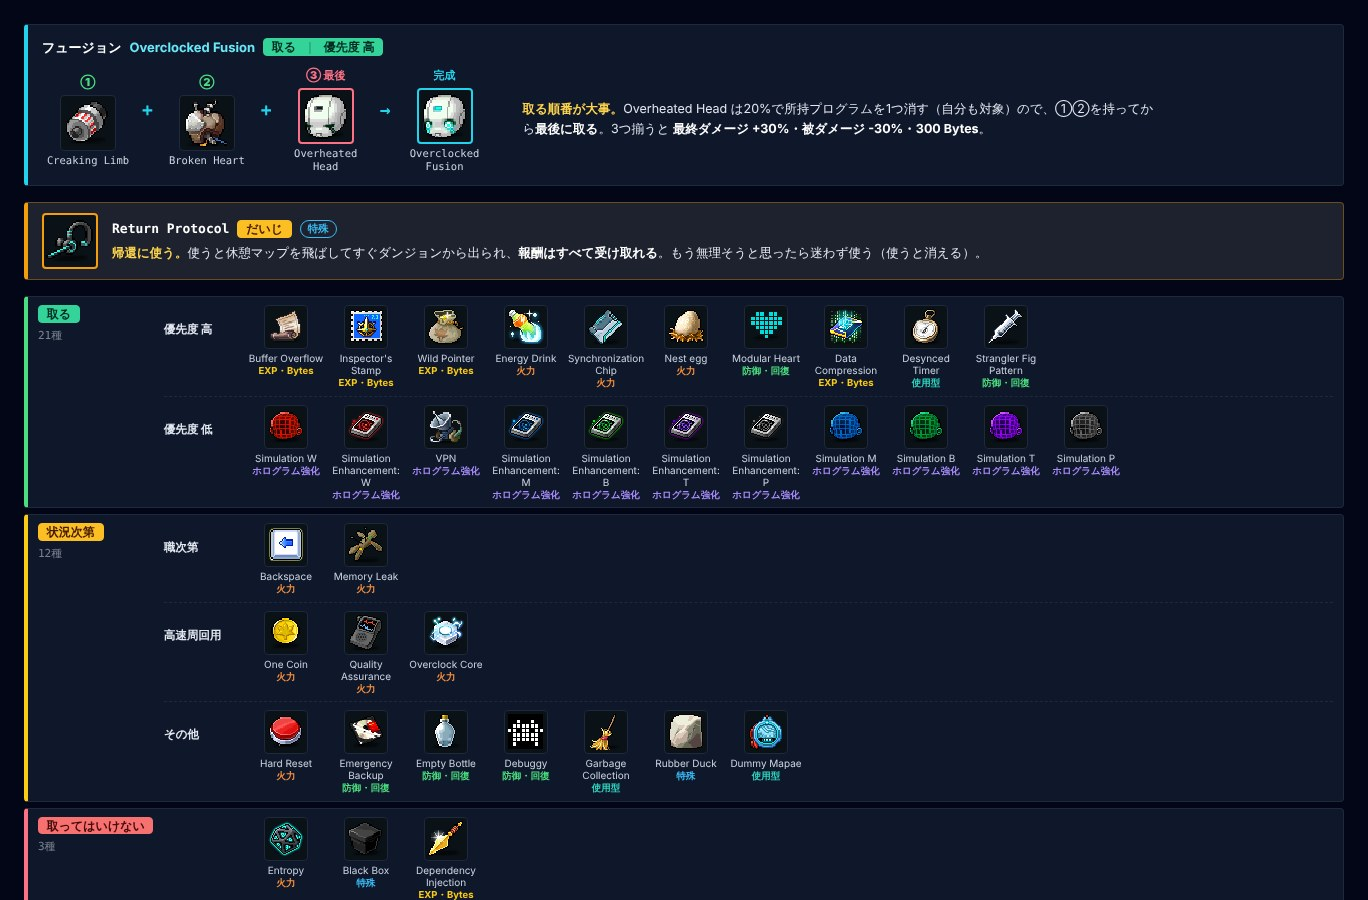
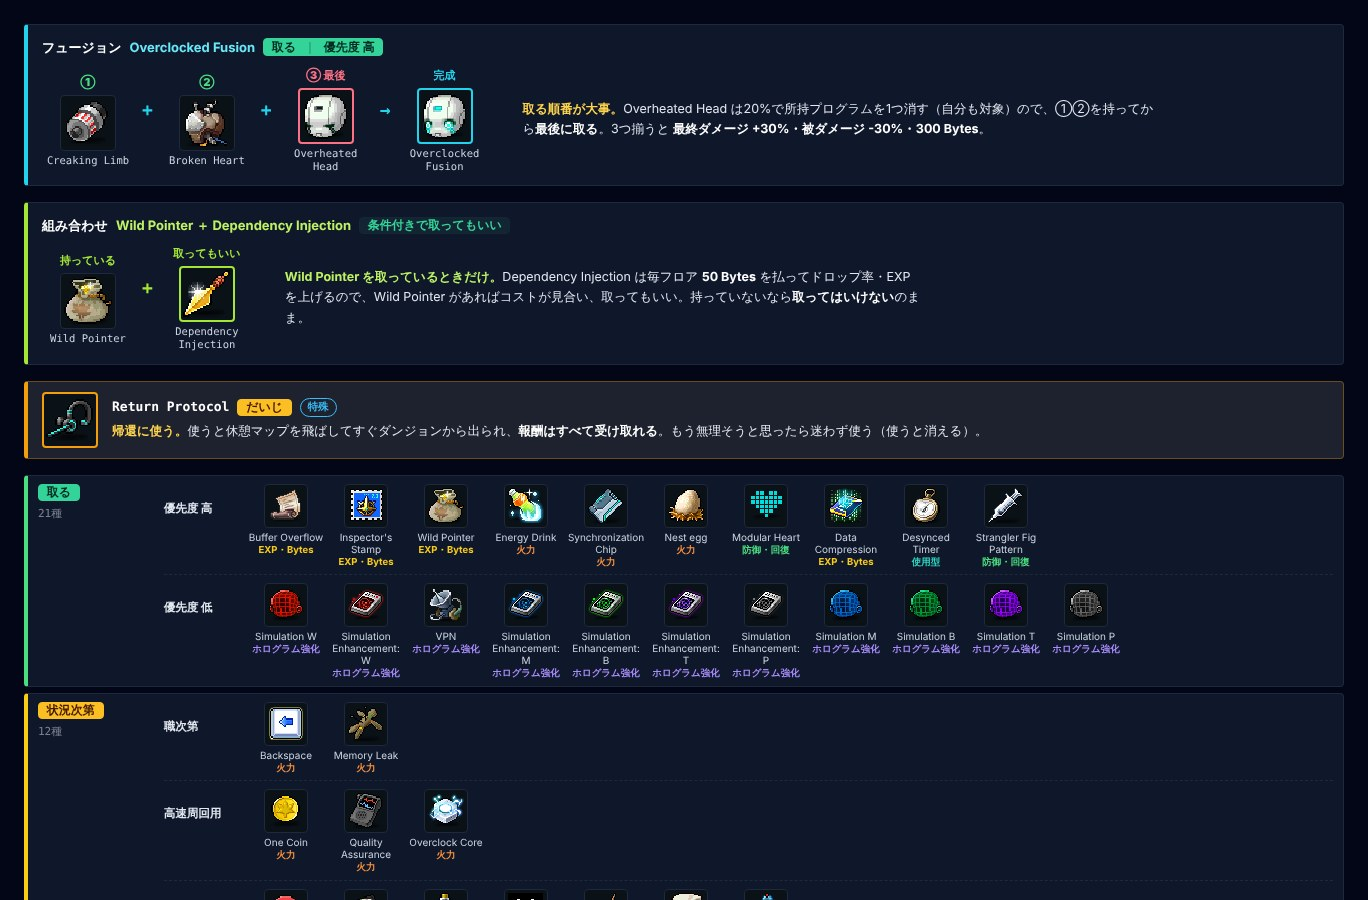
バトルシム: Wild Pointer ＋ Dependency Injection の「組み合わせ」枠を追加（bi 指定）
Dependency Injection は Wild Pointer を取っているときだけコストが見合うので取ってもいい、をフュージョンと同じ形で別枠に。

Claude-Session: https://claude.ai/code/session_01VfuuungApVwhHvPPZNJUXm

diff --git a/public/libae_battlesim.js b/public/libae_battlesim.js
@@ -39,7 +39,7 @@ const libaeBattlesim = (() => {
         {"v": "lo", "name": "VPN", "icon": "vpn", "cat": "holo", "eff": ["[Hologram] Registry の再付着時間 -1 / 2 / 3秒"], "gc": "ユーザー判断で「取る（優先度 低）」に分類（ガイドでの言及なし）", "note": "手元の一覧の -1.0秒は1段階目の値。重ね取りで -2 / -3秒"},
         {"v": "avoid", "name": "Entropy", "icon": "entropy", "cat": "atk", "eff": ["最終ダメージ +50%", "フロア入場時、30%の確率で [Disorder] が1スタック", "[Disorder] が3スタックになるとダンジョンから自動退出"], "gc": "フロアに入るたび30%でスタックが溜まり、3つで強制退出。死亡扱いではないので復活系も効かない"},
         {"v": "avoid", "name": "Black Box", "icon": "black-box", "cat": "util", "eff": ["入手した瞬間にランダムなプログラムを3つ獲得し、所持プログラムからランダムに2つ削除（再入手すると再発動）"], "gc": "3つもらえる代わりに自分のプログラムが2つ消える。大事なものを消されるリスクが見合わない"},
-        {"v": "avoid", "name": "Dependency Injection", "icon": "dependency-injection", "cat": "res", "eff": ["フロア入場時に 50 Bytes を消費し、次のどちらかを得る", "・アイテムドロップ率 +40%、獲得EXP +10%", "・獲得EXP +40%、アイテムドロップ率 +10%", "Bytesが足りないと発動しない"], "gc": "毎フロア50 Bytes払う系。序盤は厳禁。ルートルームで買い物するBytesが足りなくなる。収入が育った後半向け"},
+        {"v": "avoid", "name": "Dependency Injection", "icon": "dependency-injection", "cat": "res", "eff": ["フロア入場時に 50 Bytes を消費し、次のどちらかを得る", "・アイテムドロップ率 +40%、獲得EXP +10%", "・獲得EXP +40%、アイテムドロップ率 +10%", "Bytesが足りないと発動しない"], "gc": "毎フロア50 Bytes払う系。Wild Pointer を取っているときだけコストが見合うので取ってもいい（上の「組み合わせ」、ユーザー判断）。ガイドでは：序盤は厳禁。ルートルームで買い物するBytesが足りなくなる。収入が育った後半向け"},
         {"v": "lo", "name": "Simulation Enhancement: M", "icon": "simulation-enhancement-m", "cat": "holo", "eff": ["投影魔法使いの [Hologram] Bolt Barrage ダメージ +10 / 20 / 30%"], "gc": "Jailbreak系（ホログラム投影の強化）。ガイドでは火力が低く優先度は最下位クラスだが、ユーザー判断で「取る（優先度 低）」に分類", "tip": "Type-M Jailbreak"},
         {"v": "lo", "name": "Simulation Enhancement: B", "icon": "simulation-enhancement-b", "cat": "holo", "eff": ["投影弓使いの [Hologram] Ultimate Snipe ダメージ +10 / 20 / 30%"], "gc": "Jailbreak系。ガイドでは優先度最下位クラス。ユーザー判断で「取る（優先度 低）」に分類", "tip": "Type-B Jailbreak"},
         {"v": "lo", "name": "Simulation Enhancement: T", "icon": "simulation-enhancement-t", "cat": "holo", "eff": ["投影盗賊の [Hologram] Shurrikane ダメージ +10 / 20 / 30%"], "gc": "Jailbreak系。ガイドでは優先度最下位クラス。ユーザー判断で「取る（優先度 低）」に分類", "tip": "Type-T Jailbreak"},
@@ -111,6 +111,17 @@ const libaeBattlesim = (() => {
             <div class="flex flex-wrap items-center gap-x-8 gap-y-2 mt-2">
             <div class="flex flex-wrap items-center gap-2">${parts}<span class="bs-op">→</span>${fig(byName['Overclocked Fusion'], '完成', 'bs-done')}</div>
             <p class="text-[12.5px] leading-relaxed flex-1 min-w-[260px] max-w-[640px]"><b class="text-amber-300">取る順番が大事。</b>Overheated Head は20%で所持プログラムを1つ消す（自分も対象）ので、①②を持ってから<b class="text-white">最後に取る</b>。3つ揃うと <b class="text-white">最終ダメージ +30%・被ダメージ -30%・300 Bytes</b>。</p>
+            </div>
+        </section>`;
+    }
+    // 組み合わせ: Dependency Injection は Wild Pointer を取っているときだけコストが見合う（bi 指定、フュージョンと同じ形で別枠）
+    function comboHTML() {
+        const fig = (p, step, cls = '') => `<button type="button" class="bs-fig ${cls}" data-bs-go="${esc(p.name)}" title="${esc(p.name)} の説明へ"><span class="bs-step">${step}</span>${img(p, 48)}<span class="bs-figname">${esc(p.name)}</span></button>`;
+        return `<section class="bs-fusion bs-combo">
+            <div class="flex items-center gap-2"><span class="text-[13px] font-black text-white">組み合わせ</span><span class="text-[13px] font-bold text-lime-300">Wild Pointer ＋ Dependency Injection</span><span class="badge badge-sm font-bold badge-success badge-soft">条件付きで取ってもいい</span></div>
+            <div class="flex flex-wrap items-center gap-x-8 gap-y-2 mt-2">
+            <div class="flex flex-wrap items-center gap-2">${fig(byName['Wild Pointer'], '持っている')}<span class="bs-op">+</span>${fig(byName['Dependency Injection'], '取ってもいい', 'bs-last')}</div>
+            <p class="text-[12.5px] leading-relaxed flex-1 min-w-[260px] max-w-[640px]"><b class="text-lime-300">Wild Pointer を取っているときだけ。</b>Dependency Injection は毎フロア <b class="text-white">50 Bytes</b> を払ってドロップ率・EXP を上げるので、Wild Pointer があればコストが見合い、取ってもいい。持っていないなら<b class="text-white">取ってはいけない</b>のまま。</p>
             </div>
         </section>`;
     }
@@ -190,7 +201,7 @@ const libaeBattlesim = (() => {
     }
     function html() {
         return `<div class="bs-root flex flex-col gap-4">
-            ${fusionHTML()}${keyHTML()}${boardHTML()}
+            ${fusionHTML()}${comboHTML()}${keyHTML()}${boardHTML()}
             ${toolbarHTML()}
             <div class="flex flex-col gap-5">${listHTML()}</div>
             ${footHTML()}

diff --git a/public/guide.js b/public/guide.js
@@ -31,7 +31,7 @@ const guide = {
                       '各ピースには判定が付きます。「自前で採用」（藍）は自前のみの組み合わせ、「全部で採用」（緑）は全部の組み合わせに入っているピースで、両方に入っていれば2つ並びます。組み合わせの見出しも同じ色です。「候補」は組み合わせで足りないスキルを含むので取っておくピースです。目標やピースを変えると付け直します。',
                       '「ジュエルを一括で」の Lv を押すと、装着中のジュエルを全部その Lv にします（空きソケットはそのまま）。',
                       '「ジュエル強化」で、Lv.5 までに要る素材の残りを、全体・色別・装備ごとに見られます。素材は同じ色のジュエルだけ使え、足りない分を Dust で買う量（カラー 500、プリズマティック 3,000）も出ます。',
-                      '「バトルシム」は、ダンジョン Battlesim で手に入るプログラム全46種の図鑑です。上にフュージョン（Overclocked Fusion）の取る順番、帰還に使う Return Protocol、分類（取る＝優先度 高・低／状況次第＝職次第・高速周回用・その他／取ってはいけない／マイナス効果）ごとのアイコン一覧があり、アイコンの下は系統（火力・ホログラム強化・使用型など）です。アイコンを押すとそのプログラムの説明に移ります。下の欄で名前や効果を検索したり、分類で絞り込んだりできます。分類は Bijyon の判断、各カードのガイド欄は Shapaz さんのガイド動画、アイコンと効果は GMS クライアントから抽出したデータです。',
+                      '「バトルシム」は、ダンジョン Battlesim で手に入るプログラム全46種の図鑑です。上にフュージョン（Overclocked Fusion）の取る順番、条件付きで取ってもいい組み合わせ（Wild Pointer ＋ Dependency Injection）、帰還に使う Return Protocol、分類（取る＝優先度 高・低／状況次第＝職次第・高速周回用・その他／取ってはいけない／マイナス効果）ごとのアイコン一覧があり、アイコンの下は系統（火力・ホログラム強化・使用型など）です。アイコンを押すとそのプログラムの説明に移ります。下の欄で名前や効果を検索したり、分類で絞り込んだりできます。分類は Bijyon の判断、各カードのガイド欄は Shapaz さんのガイド動画、アイコンと効果は GMS クライアントから抽出したデータです。',
                       '強化コストが変わったら、「ジュエル強化」の下の「ジュエル設定」で直せます。「資料」にスキル・ジュエルの仕様と出典をまとめています。'],
               shots: [['14-libae-gear', '装備管理。左が6部位のスキルラインとジュエル（ラインの色は目標に対する判定）、右がスキルの合計 Lv と目標ライン'],
                       ['18-libae-pieces', '所有ピース。左が部位ごとの手持ちのピース、右がセットソルバーの組み合わせと、その組み合わせでの目標ライン'],

diff --git a/public/style.css b/public/style.css
@@ -688,6 +688,11 @@ body {
 .bs-last .bs-step { color: #fb7185; }
 .bs-last .bs-ico { outline: 2px solid #fb7185; outline-offset: -2px; }
 .bs-done .bs-step { color: #22d3ee; }
+.bs-combo { border-left-color: #a3e635; }
+.bs-combo .bs-op { color: #a3e635; }
+.bs-combo .bs-step { color: #a3e635; }
+.bs-combo .bs-last .bs-step { color: #a3e635; }
+.bs-combo .bs-last .bs-ico { outline-color: #a3e635; }
 .bs-done .bs-ico { outline: 2px solid #22d3ee; outline-offset: -2px; }
 .bs-figname { font-family: var(--font-mono, ui-monospace, monospace); font-size: 10.5px; line-height: 1.25; text-align: center; color: #cbd5e1; }
 .bs-op { font-family: ui-monospace, monospace; font-size: 18px; font-weight: 700; color: #22d3ee; margin-bottom: 18px; }

diff --git a/README.md b/README.md
@@ -17,7 +17,7 @@ Cloudflare Worker + 静的アセットとして配信している。ビルド工
 | --- | --- | --- | --- |
 | Information | Journal（旧 News） | `updates` | `public/gms_updates.js`（GMS・KMSのアップデート告知の和訳と、Bijyon のコラム。上部バーの GMS／KMS と、少し離した Column で切り替え、その一覧（新しい順）が出る。コラムは `region: 'COLUMN'`、id は `col-` で始める。選んだ回は目次＋全訳の1ページで、目次から各節へ飛び、各節の「↑ 目次へ」で戻る。和訳の書き方は `.claude/skills/news-translation/SKILL.md`。各回の本文と画像は `public/updates/<id>/`。新しい回は `python3 -I tools/import_gms_update.py <和訳.html> <id>` で取り込み、`public/updates/list.json` の先頭に1件足す。過去の回は消さない。各回は `/#updates/<id>` で開け、回のページの「リンクをコピー」で渡す `/journal/<id>` は `worker.js` が Discord などのプレビュー（タイトル・概要・カバー画像）を返してから `/#updates/<id>` へ送る。一覧は `/#updates/gms`・`kms`・`column`） |
 | Information | Guide | `guide` | `public/guide.js`（使い方ガイド。アプリ一覧・基本の操作・アプリごとの説明とスクショ・よくある質問。スクショは `public/assets/guide/`。アプリを足したり画面を大きく変えたりしたら、文とスクショも直す） |
-| Event | Quanah Tools（旧 Libae's Gear） | `quanah`（旧 `libae` の URL も開ける） | `public/libae_gear.js`（Event World: Quanah の装備「Libae's Supercharged」6部位の [Hologram] スキルラインとジュエルを登録し、スキルの合計 Lv（装備は1スキル Lv.3 まで、ジュエル込みで Master Level 8）、ジュエルのステータス合計、Lv.5 までのジュエル強化の残り素材と Dust 換算を出す。上部バーの 装備管理／所有ピース／ジュエル強化／バトルシム／資料 で切り替え。バトルシムは `public/libae_battlesim.js`（ダンジョン Battlesim のプログラム46種の図鑑。分類は bi の判断、カードのガイド欄は Shapaz さんのガイド、アイコンと効果は masonym.dev の抽出データ、アイコンは `public/assets/libae/battlesim/`）。目標ライン（18ラインの配分、初期値は isophi の 3L Set Solver の最適配分）に対して装備ラインを 寄与／超過／対象外 で判定し（「クリダメ・ボスダメはどちらでもよい」チェックで2つの目標を1行にまとめて数える）、所有ピースからは各部位1つずつ選んで目標に合う組み合わせを、自前のみ（ピースの「自前」チェック）と全部の2通りで探す（基準はジョブ攻撃5種を各1以上→目標の埋まり最大→超過最少の順、採用／候補）。数値はクライアントデータ、スキル効果は PTS 時点の情報で、定数はファイル先頭。保存はブラウザの `libae-gear-public-v1`・`libae-jewel-settings-public-v1`・`libae-skill-target-public-v1`・`libae-owned-pieces-public-v1`（単体版と同じキー）、JSON の書き出し・読み込みも単体版と同じ形（本家アプリの書き出しも読める）。Event グループは期間限定のイベント用のアプリを置く） |
+| Event | Quanah Tools（旧 Libae's Gear） | `quanah`（旧 `libae` の URL も開ける） | `public/libae_gear.js`（Event World: Quanah の装備「Libae's Supercharged」6部位の [Hologram] スキルラインとジュエルを登録し、スキルの合計 Lv（装備は1スキル Lv.3 まで、ジュエル込みで Master Level 8）、ジュエルのステータス合計、Lv.5 までのジュエル強化の残り素材と Dust 換算を出す。上部バーの 装備管理／所有ピース／ジュエル強化／バトルシム／資料 で切り替え。バトルシムは `public/libae_battlesim.js`（ダンジョン Battlesim のプログラム46種の図鑑。上にフュージョン、組み合わせ（Wild Pointer を持っているときだけ Dependency Injection を取ってもいい）、Return Protocol の枠。分類は bi の判断、カードのガイド欄は Shapaz さんのガイド、アイコンと効果は masonym.dev の抽出データ、アイコンは `public/assets/libae/battlesim/`）。目標ライン（18ラインの配分、初期値は isophi の 3L Set Solver の最適配分）に対して装備ラインを 寄与／超過／対象外 で判定し（「クリダメ・ボスダメはどちらでもよい」チェックで2つの目標を1行にまとめて数える）、所有ピースからは各部位1つずつ選んで目標に合う組み合わせを、自前のみ（ピースの「自前」チェック）と全部の2通りで探す（基準はジョブ攻撃5種を各1以上→目標の埋まり最大→超過最少の順、採用／候補）。数値はクライアントデータ、スキル効果は PTS 時点の情報で、定数はファイル先頭。保存はブラウザの `libae-gear-public-v1`・`libae-jewel-settings-public-v1`・`libae-skill-target-public-v1`・`libae-owned-pieces-public-v1`（単体版と同じキー）、JSON の書き出し・読み込みも単体版と同じ形（本家アプリの書き出しも読める）。Event グループは期間限定のイベント用のアプリを置く） |
 | Event | Ultima EXP Plan | `ultima` | `public/exp_ultima.js`（ミッション・ウルティマ GMS 2026-11-11〜2027-02-09 専用のアカウント計画。計算と画面は `public/exp_plan.js` の `expPlan` を引き継いだもので、保存は別（`mm-exp-ultima::<Planner の「自分」>`、初回だけアカウント計画の中身を写す）。ウルティマのバフ（エテリオン・レリック・特殊訓練）と Sunny Sunday のモンパを内蔵し、イベントバフ一覧の分を足すかはスイッチ。チャレンジャーパス・モメンタムパス・モメンタムパス PLUS の購入と受け取るキャラ、補給報告・Specter Blast（無料、Specter Blast は週1回で交換券 3,000 枚分）の受け取るキャラを選ぶと、報酬（上級EXP交換券・農場チケット・秘薬・サウナ券）がその日から入る。開始日より前に届いた分は使い終わった扱いで、未使用の数を品目ごとに入れると開始日に足す（`state.pass[id].left`）。中身と日付は GMS v.272 のパッチノートによるもの（モメンタムの2つは v.272 にないので KMS 実績からの見込み）で、ファイル先頭の `PASSES`・`BUFFS`・`ULTIMA_SUPPLY` に持つ。上級EXP交換券の量は `public/exp_data.js` の `expCouponExp`。イベントが終わったら APPS とサイドバーの行を外す） |
 | Tools | Character Manager | `planner` | `public/script.js` |
 | Tools | HEXA Tracker | `hexa` | `public/hexa_tracker.js`、`public/hexa_reader.js`（進捗入力の「ゲーム画面から読み取り」。HEXA Matrix の画面をスクショ・ライブ共有から読む。タイトルの位置だけ Tesseract.js で探し、ノードは固定の位置、Lvの小さな数字は形の照合で読む） |
